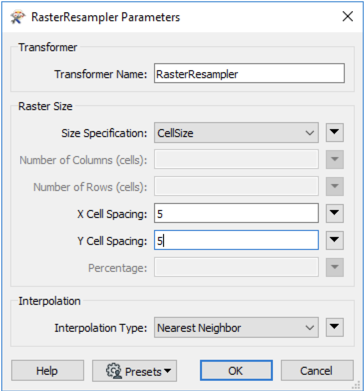
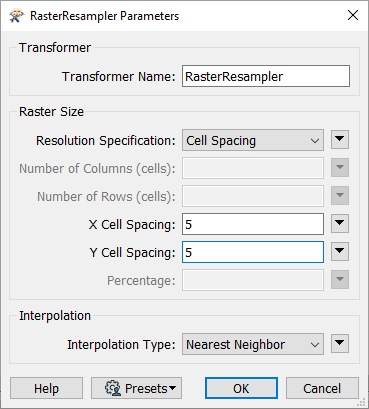
Added FME SErver start/end projects for Chapter 3

Changed region(s): [[0.0, 0.0, 1.0, 1.0], [0.1511, 0.798, 0.9368, 0.89]]

diff --git a/ServerAuthoring3SelfServe/Exercise2.md b/ServerAuthoring3SelfServe/Exercise2.md
@@ -35,8 +35,18 @@
 </tr>
 
 <tr>
+<td style="border: 1px solid darkorange; font-weight: bold">Start Server Project</td>
+<td style="border: 1px solid darkorange">C:\FMEData2020\Workspaces\ServerAuthoring\SelfServe-Ex2-Begin.fsproject</td>
+</tr>
+
+<tr>
 <td style="border: 1px solid darkorange; font-weight: bold">End Workspace</td>
 <td style="border: 1px solid darkorange">C:\FMEData2020\Workspaces\ServerAuthoring\SelfServe-Ex2-Complete.fmw</td>
+</tr>
+
+<tr>
+<td style="border: 1px solid darkorange; font-weight: bold">End Server Project</td>
+<td style="border: 1px solid darkorange">C:\FMEData2020\Workspaces\ServerAuthoring\SelfServe-Ex2-Complete.fsproject</td>
 </tr>
 
 </table>
@@ -51,12 +61,12 @@ Sometimes the end-users download data as JPEG just to open it in a browser or im
 <br>**1) Open Workspace**
 <br>Open the workspace from exercise 1, or the begin workspace listed above.
 
-<br>**2) Publish to FME Server**  
+<br>**2) Publish to FME Server**
 <br> Re-publish the workspace to FME Server.
 
-In the final dialog of the publishing wizard, check the boxes to register the workspace with both Data Download and Data Streaming (but don't click Finish yet):  
+In the final dialog of the publishing wizard, check the boxes to register the workspace with both Data Download and Data Streaming (but don't click Finish yet):
 
-![](./Images/Img3.205.Ex2.PublishToStreamService.png)  
+![](./Images/Img3.205.Ex2.PublishToStreamService.png)
 
 Click the Edit button for the Data Streaming service. Ensure that service is using the output of the JPEG Writer (for now we're limiting the streaming of data to JPEG format):
 
@@ -68,7 +78,7 @@ Click the Edit button for the Data Streaming service. Ensure that service is usi
 ![](./Images/Img3.207.Ex2.SelectStreamingService.png)
 
 
-<br>**5) Check Results**  
+<br>**5) Check Results**
 <br>You should find that the results of the translation are returned as a streamed JPEG file. Most likely it will open directly in your web browser:
 
 ![](./Images/Img3.210.Ex2.JPEGOpenedInBrowser.png)
@@ -95,4 +105,4 @@ By completing this exercise you have learned how to:
 </span>
 </td>
 </tr>
-</table>   
+</table>

diff --git a/ServerAuthoring3SelfServe/Exercise3.md b/ServerAuthoring3SelfServe/Exercise3.md
@@ -39,6 +39,11 @@
 <td style="border: 1px solid darkorange">C:\FMEData2020\Workspaces\ServerAuthoring\SelfServe-Ex3-Complete.fmw</td>
 </tr>
 
+<tr>
+<td style="border: 1px solid darkorange; font-weight: bold">End Server Project</td>
+<td style="border: 1px solid darkorange">C:\FMEData2020\Workspaces\ServerAuthoring\SelfServe-Ex3-Complete.fsproject</td>
+</tr>
+
 </table>
 
 ---
@@ -219,12 +224,12 @@ Double-click the FeatureReader to open its parameters. Change the Dataset parame
 Note that this workspace won't work on FME Desktop now, but it will run properly on Server. Click OK. The Addresses output port disappears; connect the &lt;Generic&gt; port to the Reprojector_2.
 
 <br>**11) Publish to FME Server**
-<br>With the workspace complete, we can now publish to FME Server. Click on the Publish button on the toolbar. Select the Training FME Server connection, then create a new repository called Geometry. Click Select Files... > Select Location > Upload to a shared resource folder > Data > OK to upload the GDB to FME Server's Data folder. Select Data Download and Job Submitter as the Services.
+<br>With the workspace complete, we can now publish to FME Server. Click on the Publish button on the toolbar. Select the Training FME Server connection and the Training repository. Click Select Files... > Select Location > Upload to a shared resource folder > Data > OK to upload the GDB to FME Server's Data folder. Select Data Download and Job Submitter as the Services.
 
 <br>**12) Test on FME Server**
-<br>Click the Direct Link to the workspace in the Translation Log (http://localhost/fmeserver/#/workspaces/run/Geometry/SelfServe-Ex3-Complete.fmw/) and login if necessary.
+<br>Click the Direct Link to the workspace in the Translation Log (http://localhost/fmeserver/#/workspaces/run/Training/SelfServe-Ex3-Complete.fmw/) and login if necessary.
 
-Select Geometry as the Repository and set the Service to Data Download.
+Select Training as the Repository and set the Service to Data Download.
 
 For Published Parameters, you should see the Select construction area parameter. Click on the map icon to select the area.
 

diff --git a/ServerAuthoring3SelfServe/Exercise1.md b/ServerAuthoring3SelfServe/Exercise1.md
@@ -39,6 +39,11 @@
 <td style="border: 1px solid darkorange">C:\FMEData2020\Workspaces\ServerAuthoring\SelfServe-Ex1-Complete.fmw</td>
 </tr>
 
+<tr>
+<td style="border: 1px solid darkorange; font-weight: bold">End Server Project</td>
+<td style="border: 1px solid darkorange">C:\FMEData2020\Workspaces\ServerAuthoring\SelfServe-Ex1-Complete.fsproject</td>
+</tr>
+
 </table>
 
 ---
@@ -143,7 +148,7 @@ Your workspace will now look like this:
 <br>Inspect the RasterResampler's parameters and set:
 
 <table>
-<tr><td style="font-weight: bold">Size Specification</td><td>Cell Size</td></tr>
+<tr><td style="font-weight: bold">Resolution Specification</td><td>Cell Spacing</td></tr>
 <tr><td style="font-weight: bold">X Cell Spacing</td><td>5</td></tr>
 <tr><td style="font-weight: bold">Y Cell Spacing</td><td>5</td></tr>
 </table>
@@ -192,4 +197,4 @@ By completing this exercise you have learned how to:
 </span>
 </td>
 </tr>
-</table>   
+</table>

diff --git a/WhatsNew.md b/WhatsNew.md
@@ -18,6 +18,7 @@ This file documents major changes made to training materials in 2019
 
 ### Self-Serve with FME Server: Part1 & Part2###
 - Reduced the content on user parameters, as this is covered in detail in [Desktop Advanced](https://s3.amazonaws.com/gitbook/Desktop-Advanced-2019/DesktopAdvanced4Parameters/4.00.AdvancedParameterUse.html)
+- Consolidated the discussion of geometry user parameters to just include pre-existing boundaries and the Geometry user parameter
 - Edited [Exercise 3](ServerAuthoring3SelfServe\Exercise3.md) to cover adding a Geometry user parameter
 - Removed Exercises 4-6, as these are covered by Desktop Advanced training and were repetitive
 
